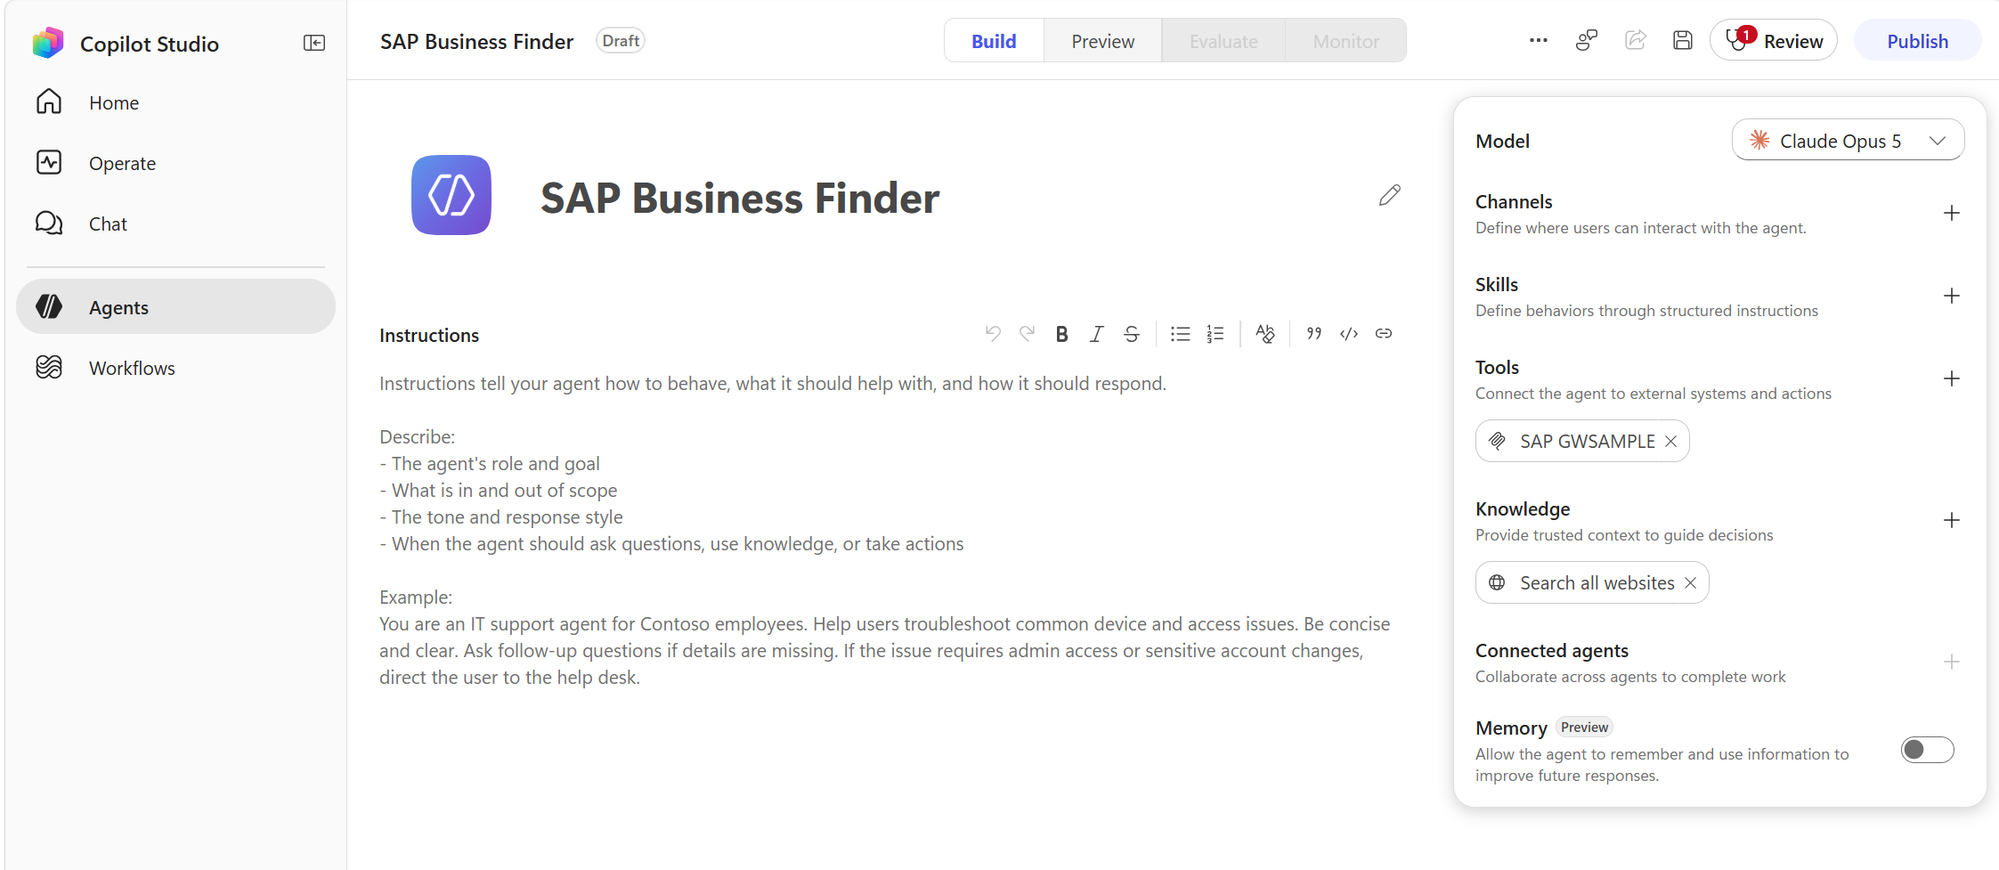
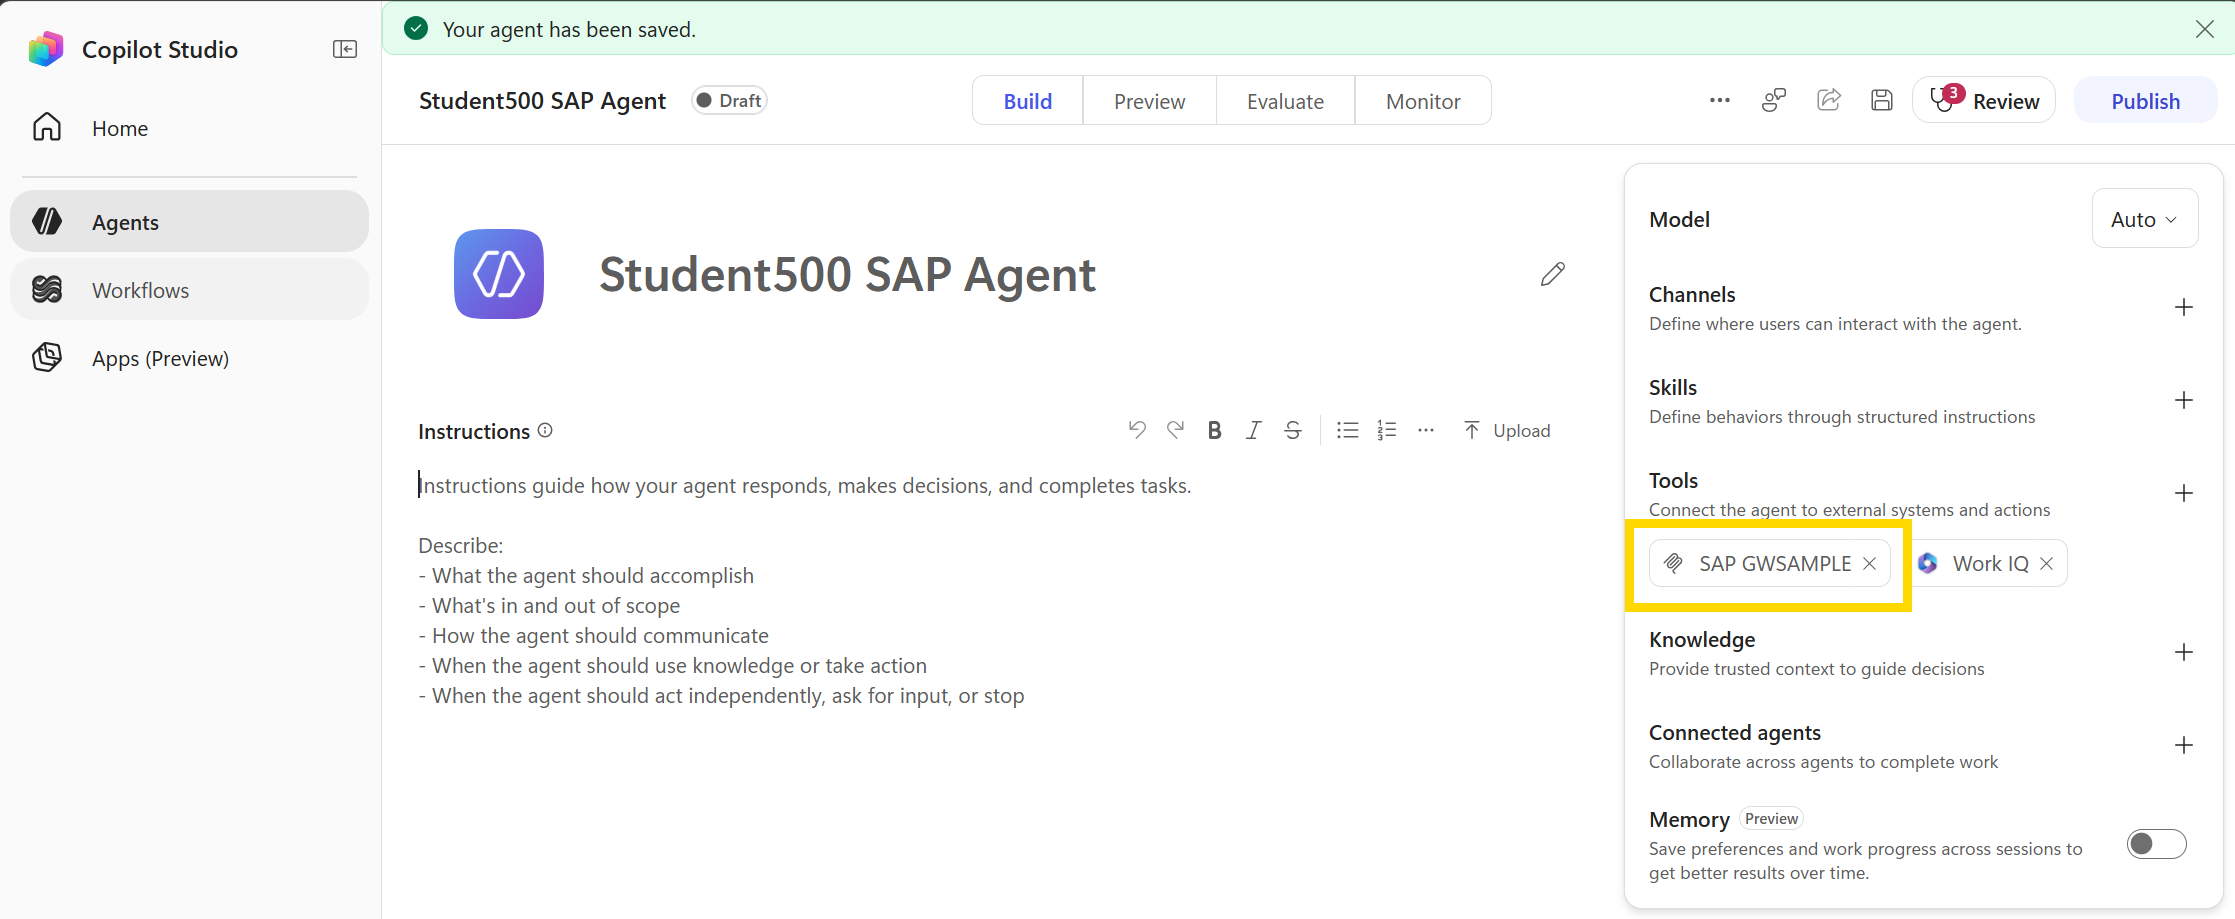
Update workshop materials and images for Copilot Studio enhancements

diff --git a/workshop/module-3-mcp.md b/workshop/module-3-mcp.md
@@ -130,7 +130,7 @@ Use this server description:
 
 ![Ask for Sales Orders in Preview](images/copilot-studio-preview-sales-order-prompt.png)
 
-3. The first time the agent invokes an MCP operation, Copilot Studio displays a
+3. The first time the agent invokes an MCP operation, Copilot Studio might displays a
    **Permission Required** card. Review the requested operation and select
    **Approve**.
 
@@ -157,7 +157,7 @@ MCP server, requested approval, and returned live SAP data.
 
 ### Compare the two preview modes
 
-Use the **End-user preview** toggle at the top of the Preview page to switch between:
+Use the **Debug mode** toggle at the top of the Preview page to switch between:
 
 - **Creator view**, which exposes orchestration details such as reasoning steps,
   selected tools, and permission requests
@@ -193,7 +193,7 @@ appropriate approved model without redesigning the agent or its SAP integrations
 Choosing a smaller or less expensive model where advanced reasoning is unnecessary
 can reduce operating costs.
 
-For our lab, leave the model as **Claude Opus 5**
+For our lab, leave the model as **Auto**
 
 ![Select an available model in Copilot Studio](images/copilot-studio-model-selection.png)
 
@@ -215,8 +215,6 @@ connector-sharing problem, not an SAP authentication problem.
 
 ## 🧭 Where to next?
 
-**Previous:** [← Module 2 · Work IQ](module-2-work-iq.md)
-
-**Next:** [Module 4 · A2A →](module-4-a2a.md)
+**Previous:** [← Module 2 · Work IQ](module-2-work-iq.md) | **Next:** [Module 4 · A2A →](module-4-a2a.md)
 
 [🏠 Welcome](../README.md) · [🗺 All modules](tutorial.md) · [⬆ Back to top](#)

diff --git a/workshop/module-2-work-iq.md b/workshop/module-2-work-iq.md
@@ -8,6 +8,10 @@
 
 Work IQ adds Microsoft 365 capabilities to the same Copilot Studio agent. Work IQ operates in the signed-in user's Microsoft 365 context and respects that user's access.
 
+> [!TIP]
+> With the latest update of Copilot Studio, Work IQ is most likely already added by default. You might be able to skip the next steps if Work IQ is already shown under Tools
+> You might still want to click on "+ Add a tool" to explore all of the available tools that can be easily connected to your agent
+
 1. Return to **Build** and select **Tools**.
 2. Select **+ Add a tool**.
 ![Select Tools in the agent Build view](images/copilot-studio-select-tools.png)
@@ -30,6 +34,8 @@ Work IQ adds Microsoft 365 capabilities to the same Copilot Studio agent. Work I
 
 8. Confirm that the agent creates the document and returns it as an attachment.
 
+9. Explore other options and search for documents available in the environment. 
+
 > [!NOTE]
 > The workshop tenant's available licenses may limit searching existing Microsoft 365
 > content. Document creation can still be demonstrated. Searching OneDrive,
@@ -51,8 +57,6 @@ instructors can pre-provision OneDrive sites with `Request-SPOPersonalSite`.
 
 ## 🧭 Where to next?
 
-**Previous:** [← Module 1 · Getting started](module-1-getting-started.md)
-
-**Next:** [Module 3 · MCP →](module-3-mcp.md)
+**Previous:** [← Module 1 · Getting started](module-1-getting-started.md) | **Next:** [Module 3 · MCP →](module-3-mcp.md)
 
 [🏠 Welcome](../README.md) · [🗺 All modules](tutorial.md) · [⬆ Back to top](#)

diff --git a/workshop/module-4-a2a.md b/workshop/module-4-a2a.md
@@ -160,7 +160,7 @@ to delegate a more complex task to the A2A agent and can take longer.
 
 ### Inspect the A2A delegation
 
-Turn off **End-user preview** to switch to the creator view. Expand the orchestration
+Turn off **Debug mode** to switch to the creator view. Expand the orchestration
 details and verify that Copilot Studio called the **A2A-Business-Partner-Product**
 connected agent.
 
@@ -181,8 +181,6 @@ one of the MCP tools.
 
 ## 🧭 Where to next?
 
-**Previous:** [← Module 3 · MCP](module-3-mcp.md)
-
-**Put it all together:** [Guided conversation · MCP + A2A →](conversation-script.md)
+**Previous:** [← Module 3 · MCP](module-3-mcp.md) | **Put it all together:** [Guided conversation · MCP + A2A →](conversation-script.md)
 
 [🏠 Welcome](../README.md) · [🗺 All modules](tutorial.md) · [⬆ Back to top](#)

diff --git a/workshop/module-1-getting-started.md b/workshop/module-1-getting-started.md
@@ -13,6 +13,9 @@
 > Use an InPrivate or Incognito browser window. This avoids conflicts with another
 > Microsoft identity that may already be signed in.
 
+> [!IMPORTANT]
+> Don't just open copilotstudio.microsoft.com! You have to use the link above so that you are connected to the correct enviornment with all the required connections configured. 
+ 
 2. Sign in with the workshop user assigned to you, for example
    `student001@tws22.onmicrosoft.com`.
 3. Enter the password provided by the facilitator.
